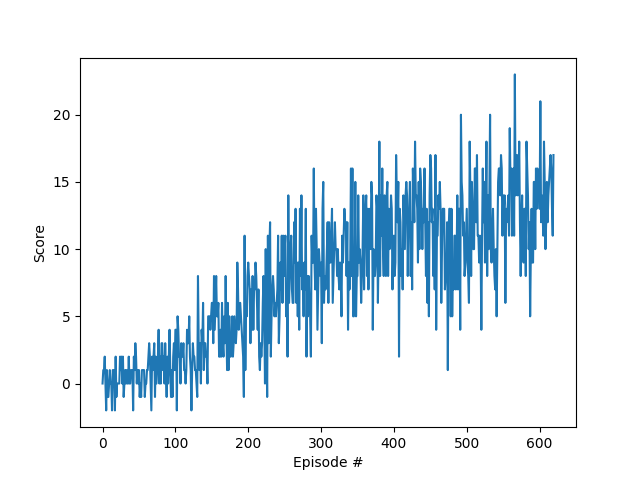
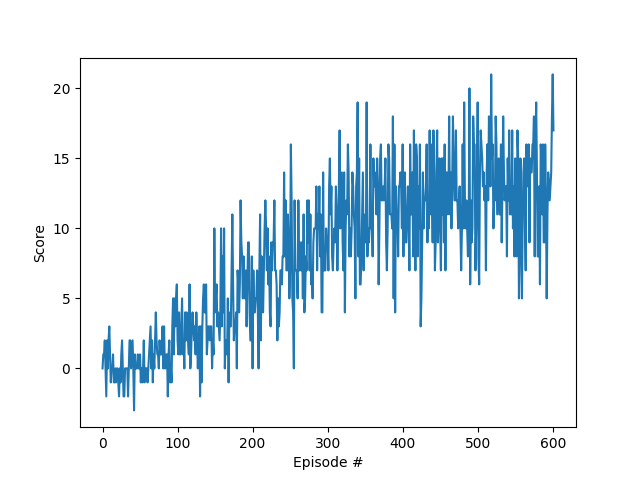
update PER alpha value

diff --git a/p1_value_based_methods/navigation_vector/dqn_agent.py b/p1_value_based_methods/navigation_vector/dqn_agent.py
@@ -12,7 +12,7 @@ BUFFER_SIZE = int(4e4)  # replay buffer size
 BATCH_SIZE = 64         # minibatch size
 GAMMA = 0.99            # discount factor
 TAU = 1e-3              # for soft update of target parameters
-LR = 2.5e-4               # learning rate 
+LR = 2.5e-4               # learning rate
 UPDATE_EVERY = 4        # how often to update the network
 
 device = torch.device("cuda:0" if torch.cuda.is_available() else "cpu")
@@ -102,7 +102,7 @@ class Agent():
         """
         states, actions, rewards, next_states, dones = experiences
 
-        if self.use_ddqn_dueling_network:
+        if self.use_prioritized_replay or self.use_ddqn_dueling_network:
             # 1. DOUBLE DQN WITH DUELING NETWORKS
             # Use the LOCAL Dueling network to SELECT the best action index for the next states
             # (Extracts the index component [1] from PyTorch's max() function)
@@ -206,7 +206,7 @@ class ReplayBuffer:
 class PrioritizedReplayBuffer:
     """Fixed-size buffer to store priority experience tuples."""
     
-    def __init__(self, action_size, buffer_size, batch_size, alpha=0.6, beta_start=0.4, beta_frames=100000):
+    def __init__(self, action_size, buffer_size, batch_size, alpha=0.4, beta_start=0.4, beta_frames=100000):
         self.action_size = action_size
         self.buffer_size = buffer_size
         self.batch_size = batch_size

diff --git a/p1_value_based_methods/navigation_vector/main.py b/p1_value_based_methods/navigation_vector/main.py
@@ -44,7 +44,7 @@ def main():
     if torch.cuda.is_available():
         torch.cuda.manual_seed_all(seed)
 
-    agent = Agent(state_size=state_size, action_size=action_size, use_prioritized_replay=True, use_ddqn_dueling_network=False)
+    agent = Agent(state_size=state_size, action_size=action_size, use_prioritized_replay=True, use_ddqn_dueling_network=True)
 
     n_episodes=2000     # n_episodes (int): maximum number of training episodes
     max_t=1000          # max_t (int): maximum number of timesteps per episode
